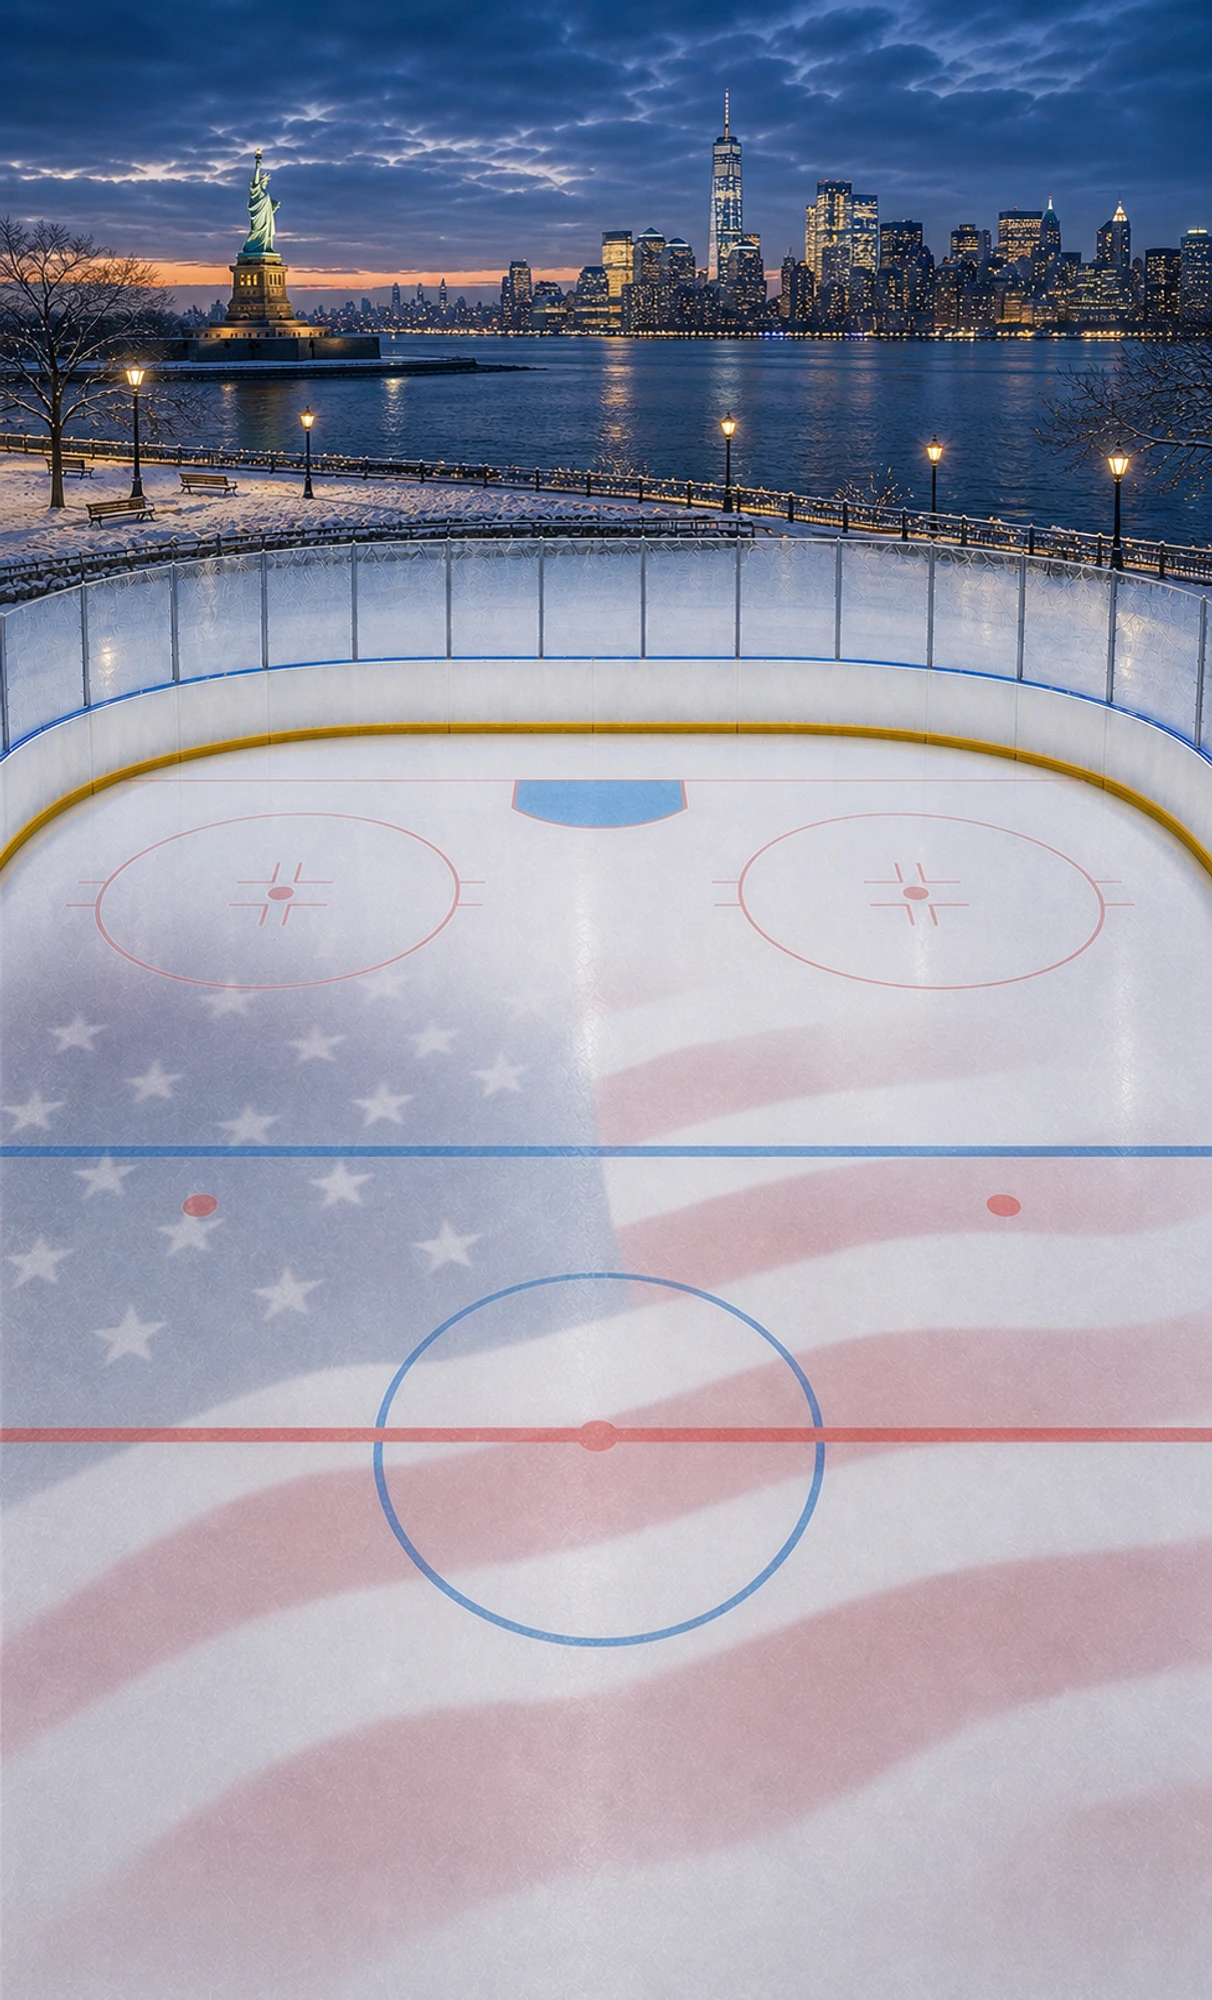
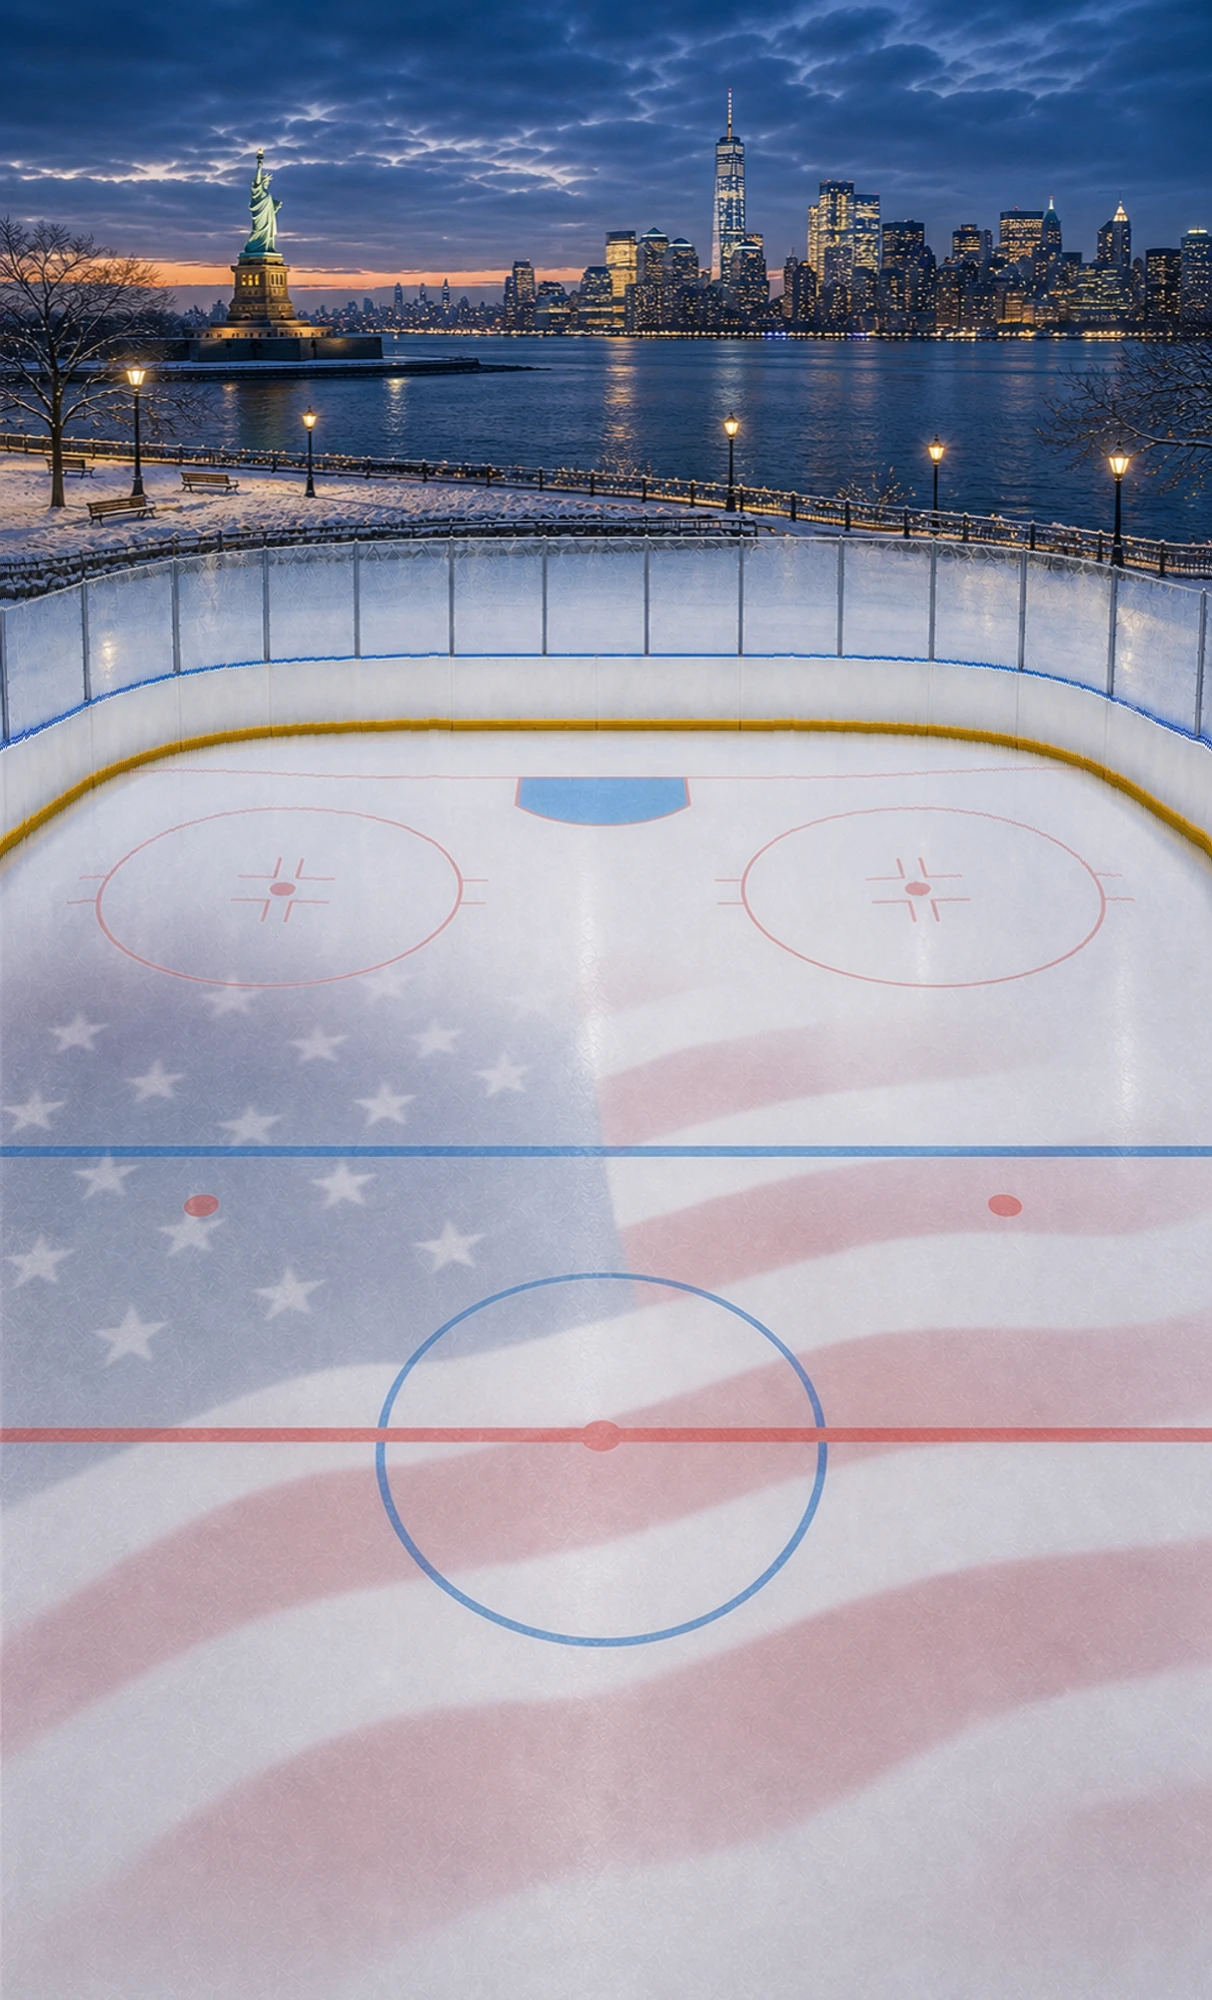
fix(bonus-games): normalize World Tour rink geometry

diff --git a/packages/web/src/game/bonusGameAssets.test.ts b/packages/web/src/game/bonusGameAssets.test.ts
@@ -30,6 +30,7 @@ interface RawImage {
 
 interface SharpPipeline {
   removeAlpha(): SharpPipeline;
+  ensureAlpha(): SharpPipeline;
   raw(): SharpPipeline;
   toBuffer(options: { resolveWithObject: true }): Promise<RawImage>;
 }
@@ -75,13 +76,72 @@ function readWebpDimensions(filePath: string): { width: number; height: number }
   throw new Error(`Missing WebP image chunk: ${filePath}`);
 }
 
+async function findKickplateY(filePath: string, x: number): Promise<number> {
+  const { data, info } = await sharp(filePath)
+    .removeAlpha()
+    .raw()
+    .toBuffer({ resolveWithObject: true });
+  let bestY = 620;
+  let bestSignal = Number.NEGATIVE_INFINITY;
+
+  for (let y = 620; y <= 880; y += 1) {
+    let signal = 0;
+    for (let sampleX = x - 3; sampleX <= x + 3; sampleX += 1) {
+      const offset = (y * info.width + sampleX) * info.channels;
+      const red = data[offset]!;
+      const green = data[offset + 1]!;
+      const blue = data[offset + 2]!;
+      signal += red + green - 2 * blue;
+    }
+    if (signal > bestSignal) {
+      bestSignal = signal;
+      bestY = y;
+    }
+  }
+
+  return bestY;
+}
+
+async function visibleAlphaBounds(filePath: string): Promise<{
+  width: number;
+  height: number;
+  canvasWidth: number;
+  canvasHeight: number;
+}> {
+  const { data, info } = await sharp(filePath)
+    .ensureAlpha()
+    .raw()
+    .toBuffer({ resolveWithObject: true });
+  let minX = info.width;
+  let minY = info.height;
+  let maxX = -1;
+  let maxY = -1;
+
+  for (let y = 0; y < info.height; y += 1) {
+    for (let x = 0; x < info.width; x += 1) {
+      if (data[(y * info.width + x) * info.channels + 3]! <= 8) continue;
+      minX = Math.min(minX, x);
+      minY = Math.min(minY, y);
+      maxX = Math.max(maxX, x);
+      maxY = Math.max(maxY, y);
+    }
+  }
+
+  return {
+    width: maxX - minX + 1,
+    height: maxY - minY + 1,
+    canvasWidth: info.width,
+    canvasHeight: info.height,
+  };
+}
+
 describe('bonus game runtime assets', () => {
   it('rebuilds arenas from the approved generated masters instead of legacy overlays', () => {
     const script = readFileSync(path.resolve('scripts/build-bonus-assets.mjs'), 'utf8');
 
-    expect(script).toContain("assets/bonus-games/generated-arenas");
-    expect(script).toContain("assets/bonus-games/generated-previews");
-    expect(script).not.toContain("assets/bonus-games/textures");
+    expect(script).toContain('assets/bonus-games/generated-arenas');
+    expect(script).toContain('assets/bonus-games/generated-previews');
+    expect(script).not.toContain('assets/bonus-games/textures');
     expect(script).not.toContain('amateur-daily-court.webp');
   });
 
@@ -272,11 +332,8 @@ describe('bonus game runtime assets', () => {
     }
   });
 
-  it('keeps the upper goal line aligned with the daily-court master at Y=779', async () => {
-    for (const entry of [
-      ...Object.values(BONUS_GAME_ASSETS),
-      ...Object.values(WORLD_TOUR_BONUS_GAME_ASSETS),
-    ]) {
+  it('keeps the original bonus arenas aligned with the daily-court master at Y=779', async () => {
+    for (const entry of Object.values(BONUS_GAME_ASSETS)) {
       const filePath = path.resolve('public', entry.arena.slice(1));
       const { data, info } = await sharp(filePath)
         .removeAlpha()
@@ -307,6 +364,45 @@ describe('bonus game runtime assets', () => {
 
       candidates.sort((left, right) => right.warmLineSignal - left.warmLineSignal);
       expect(Math.abs(candidates[0]!.y - 779), entry.arena).toBeLessThanOrEqual(1);
+    }
+  });
+
+  it('keeps every World Tour rink centred with both goal-travel edges on Y=779', async () => {
+    for (const slug of WORLD_TOUR_SLUGS) {
+      const filePath = path.resolve('public/bonus-games/world-tour/arenas', `${slug}.webp`);
+      const samples = await Promise.all(
+        [89, 150, 300, 912, 1062, 1123].map((x) => findKickplateY(filePath, x)),
+      );
+      const [leftGoalEdge, leftOuter, leftInner, rightInner, rightOuter, rightGoalEdge] = samples;
+
+      expect(Math.abs(leftGoalEdge! - 779), `${slug}: left goal edge`).toBeLessThanOrEqual(4);
+      expect(Math.abs(rightGoalEdge! - 779), `${slug}: right goal edge`).toBeLessThanOrEqual(4);
+      expect(Math.abs(leftOuter! - rightOuter!), `${slug}: outer symmetry`).toBeLessThanOrEqual(4);
+      expect(Math.abs(leftInner! - rightInner!), `${slug}: inner symmetry`).toBeLessThanOrEqual(4);
+    }
+  });
+
+  it('normalises World Tour ready and save poses to the same visible height', async () => {
+    for (const slug of WORLD_TOUR_SLUGS) {
+      const ready = await visibleAlphaBounds(
+        path.resolve('public/bonus-games/world-tour/goalkeepers', `${slug}-ready.webp`),
+      );
+      const save = await visibleAlphaBounds(
+        path.resolve('public/bonus-games/world-tour/goalkeepers', `${slug}-save.webp`),
+      );
+
+      expect(
+        { width: ready.canvasWidth, height: ready.canvasHeight },
+        `${slug}: ready canvas`,
+      ).toEqual({ width: 1254, height: 1254 });
+      expect(
+        { width: save.canvasWidth, height: save.canvasHeight },
+        `${slug}: save canvas`,
+      ).toEqual({ width: 1254, height: 1254 });
+      expect(
+        Math.abs(ready.height - save.height),
+        `${slug}: visible pose height`,
+      ).toBeLessThanOrEqual(12);
     }
   });
 });

diff --git a/packages/web/src/screens/BonusGamePlayScreen.tsx b/packages/web/src/screens/BonusGamePlayScreen.tsx
@@ -44,10 +44,8 @@ const BONUS_GAME_GOALIE_OPTIONS: Omit<GoalieOptions, 'idleSpriteUrl' | 'saveSpri
 };
 
 function bonusGoalieOptions(attempt: BonusGameAttempt): GoalieOptions {
-  const isWorldTour = attempt.goalkeeper_ready_url.includes('/bonus-games/world-tour/');
   return {
     ...BONUS_GAME_GOALIE_OPTIONS,
-    saveSizeScale: isWorldTour ? 1.04 : BONUS_GAME_GOALIE_OPTIONS.saveSizeScale,
     idleSpriteUrl: attempt.goalkeeper_ready_url,
     saveSpriteUrl: attempt.goalkeeper_save_url,
   };

diff --git a/packages/web/src/screens/BonusGamePlayScreen.test.tsx b/packages/web/src/screens/BonusGamePlayScreen.test.tsx
@@ -393,7 +393,7 @@ describe('BonusGamePlayScreen', () => {
     expect(props).toMatchObject({
       goalieOptions: {
         idleSizeScale: 1.22,
-        saveSizeScale: 1.04,
+        saveSizeScale: 0.96,
       },
     });
   });
